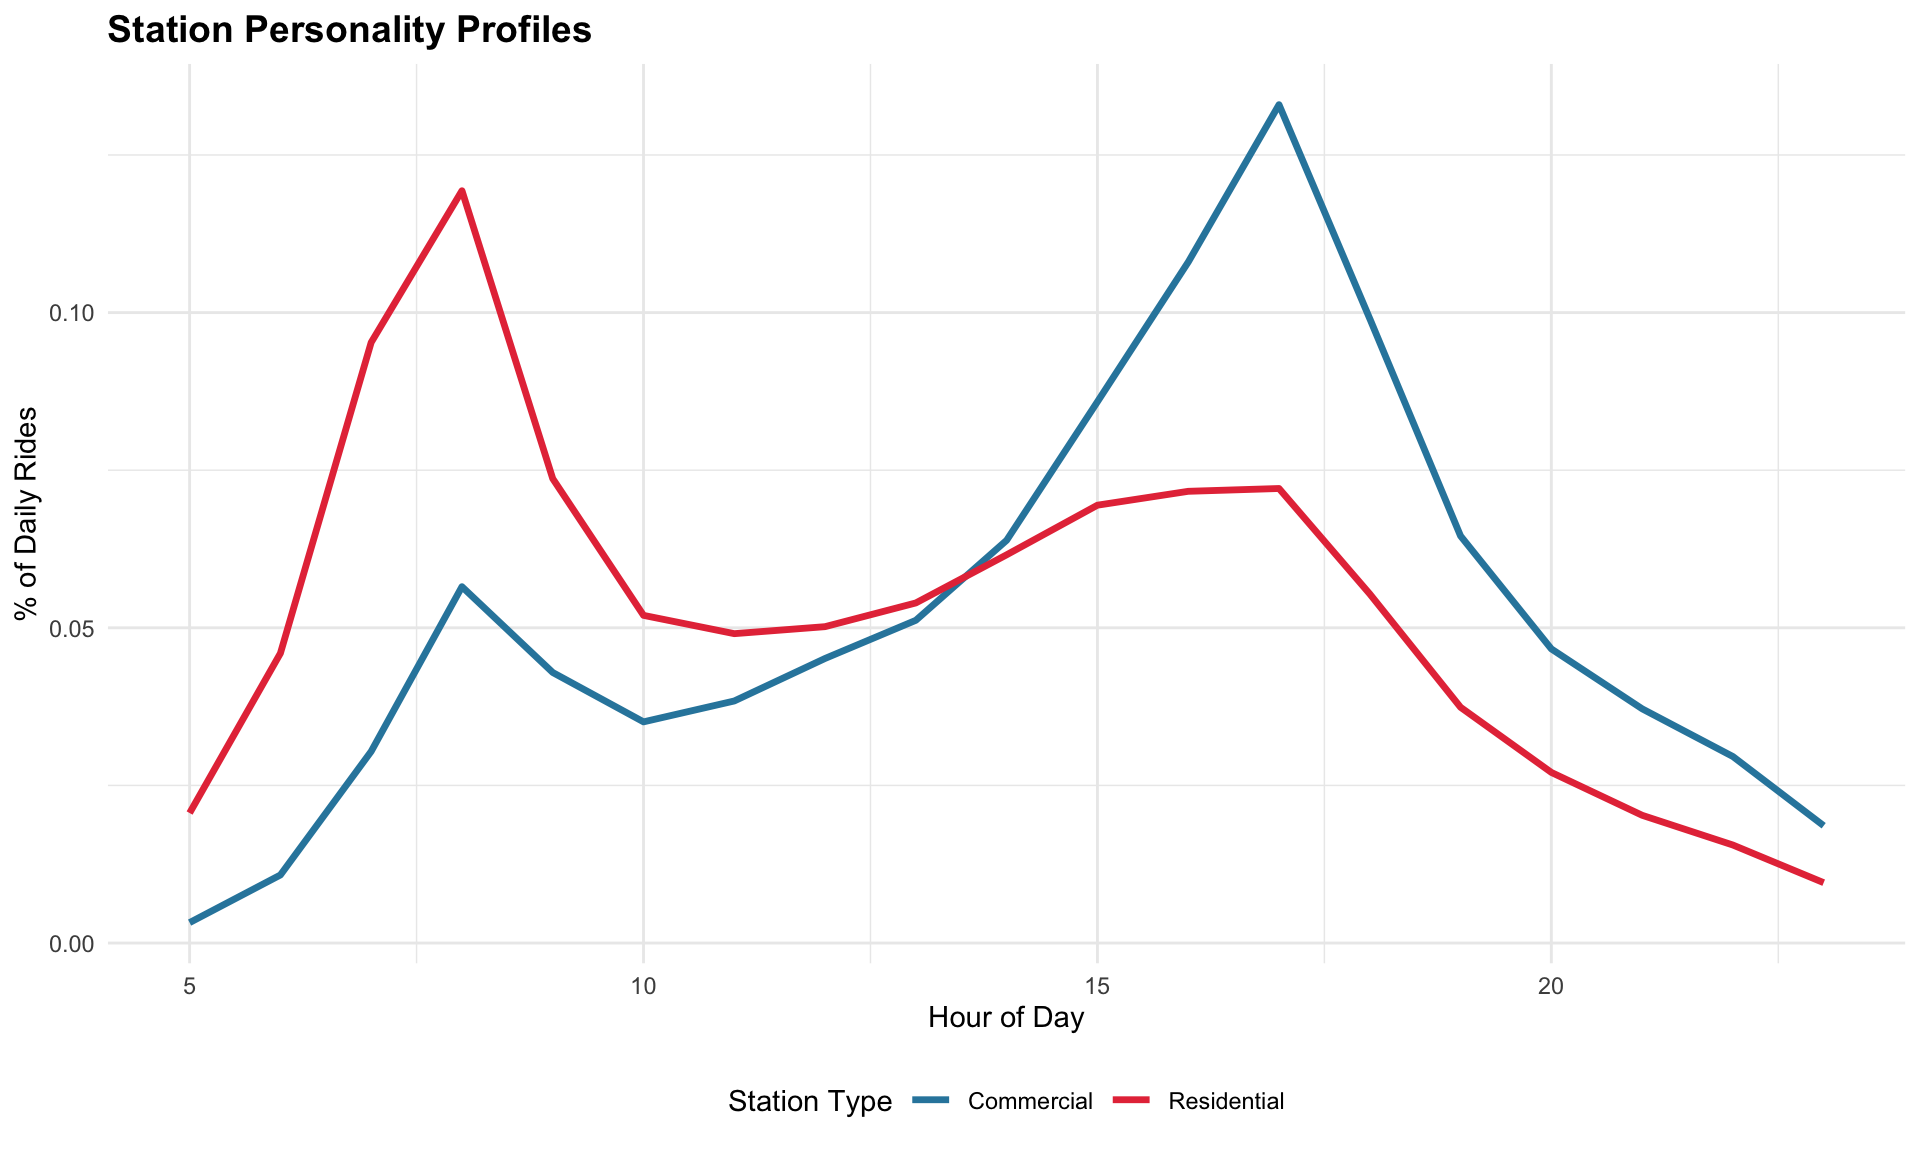
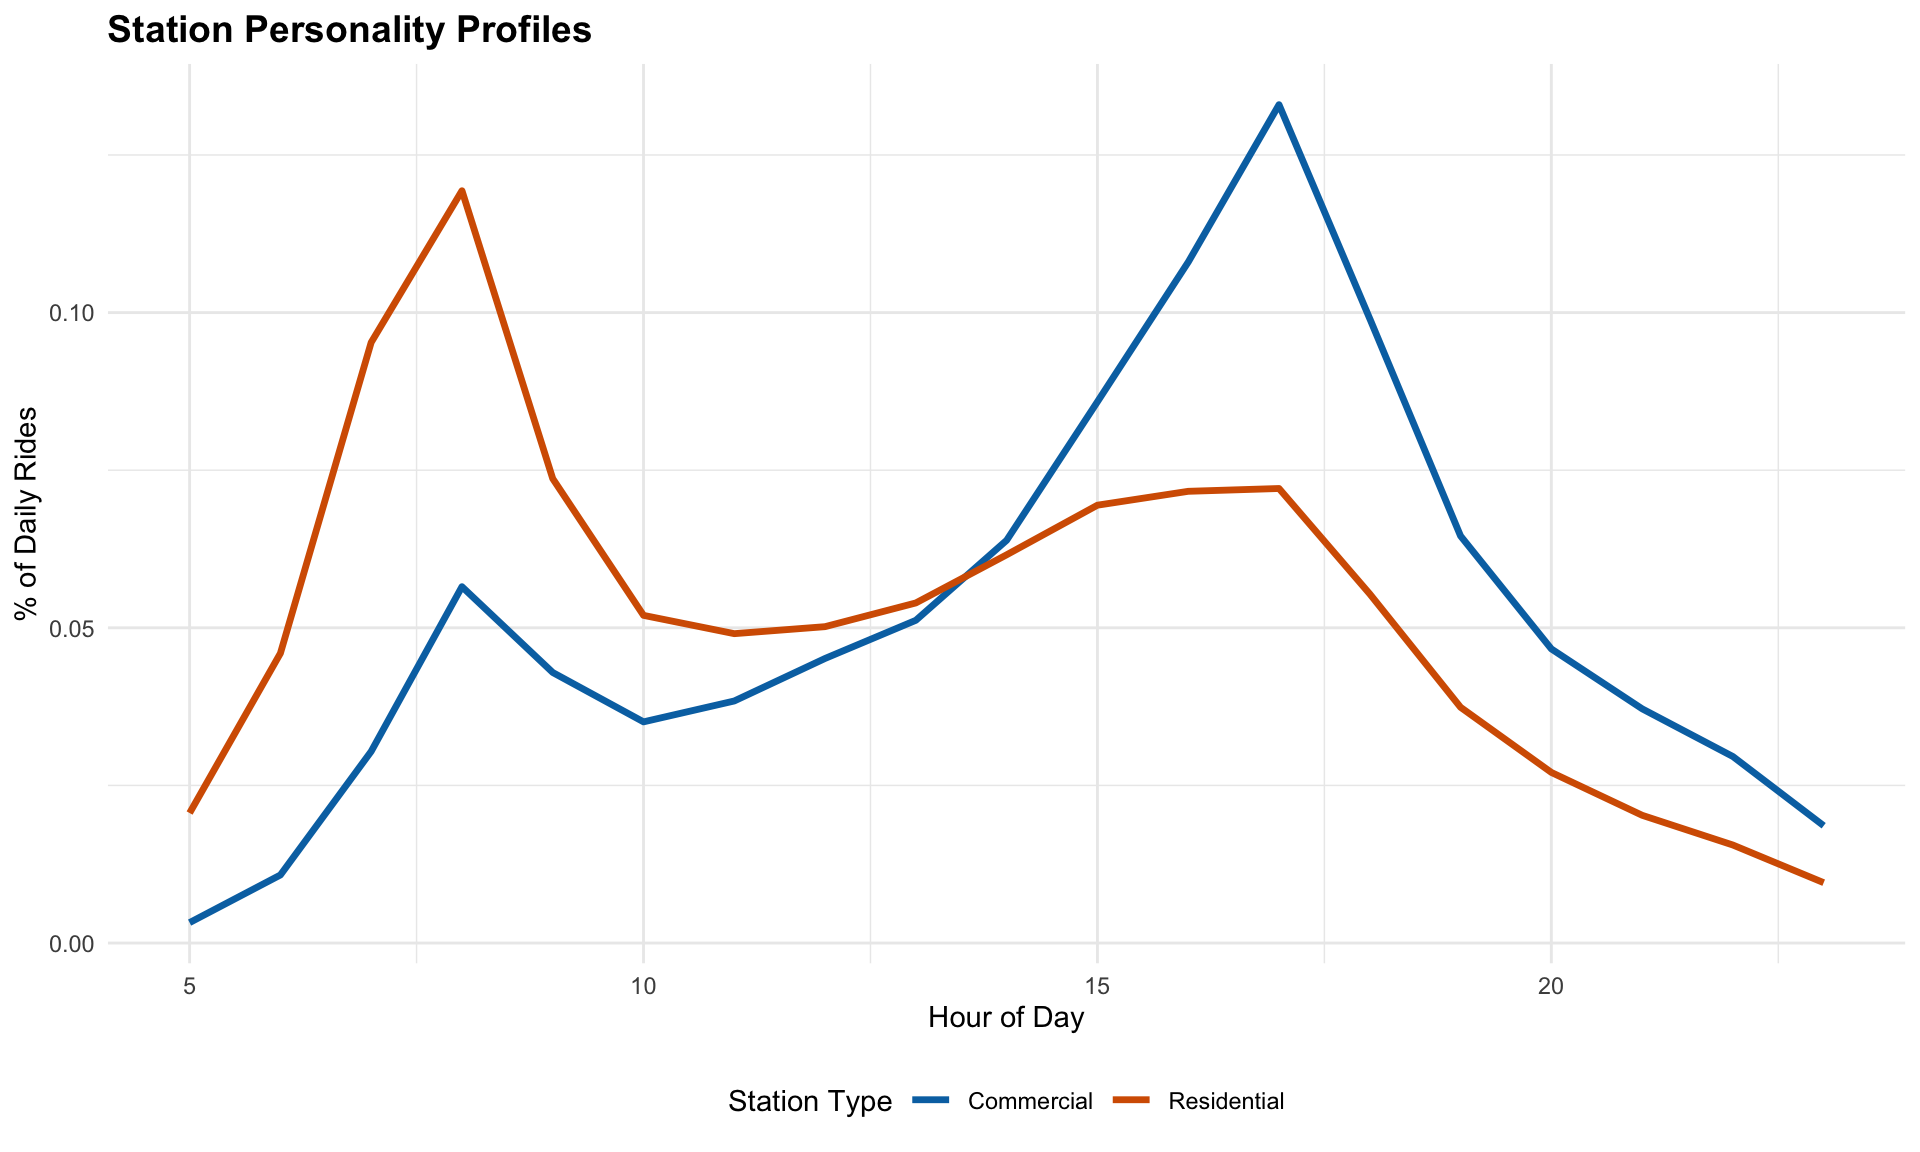
Change all diagrams to use Okabe-Ito palette

diff --git a/data.html b/data.html
@@ -401,16 +401,27 @@ making monthly downloads feasible within API limits while preserving the
 station-hour granularity needed for our weather and event analyses.</p>
 <p>This yielded 1,921,163 hourly observations across 123 Manhattan
 stations from 2024-01-01 to 2025-10-19.</p>
-<pre class="r"><code># Daily trend (2024 only)
-p_daily &lt;- ridership |&gt;
+<pre class="r"><code># Daily trend (2024 only) with 7-day rolling average
+daily_ridership &lt;- ridership |&gt;
   filter(year(date) == 2024) |&gt;
   group_by(date) |&gt;
   summarize(total = sum(total_ridership, na.rm = TRUE) / 1e6, .groups = &quot;drop&quot;) |&gt;
-  ggplot(aes(x = date, y = total)) +
-  geom_line(color = &quot;#2E86AB&quot;, linewidth = 0.8) +
+  arrange(date) |&gt;
+  mutate(
+    rolling_avg = slide_dbl(total, mean, .before = 3, .after = 3, .complete = TRUE)
+  )
+
+p_daily &lt;- daily_ridership |&gt;
+  ggplot(aes(x = date)) +
+  geom_line(aes(y = total), color = okabe_ito$blue, alpha = 0.3, linewidth = 0.4) +
+  geom_line(aes(y = rolling_avg), color = okabe_ito$blue, linewidth = 0.9) +
   scale_y_continuous(labels = comma) +
-  labs(title = &quot;Manhattan Subway Daily Ridership (2024)&quot;, x = NULL, y = &quot;Daily Ridership (M)&quot;) +
-  theme(plot.title = element_text(size = 11))
+  labs(
+    title = &quot;Manhattan Subway Daily Ridership (2024)&quot;,
+    subtitle = &quot;7-day rolling average (bold) with daily values (faded)&quot;,
+    x = NULL, y = &quot;Daily Ridership (M)&quot;
+  ) +
+  theme(plot.title = element_text(size = 11), plot.subtitle = element_text(size = 9))
 
 # Hourly pattern
 p_hourly &lt;- ridership |&gt;
@@ -419,7 +430,7 @@ p_hourly &lt;- ridership |&gt;
   summarize(avg = mean(total_ridership, na.rm = TRUE) / 1000, .groups = &quot;drop&quot;) |&gt;
   ggplot(aes(x = hour, y = avg, color = weekday_type)) +
   geom_line(linewidth = 1) +
-  scale_color_manual(values = c(&quot;Weekday&quot; = &quot;#2E86AB&quot;, &quot;Weekend&quot; = &quot;#E63946&quot;)) +
+  scale_color_manual(values = c(&quot;Weekday&quot; = okabe_ito$blue, &quot;Weekend&quot; = okabe_ito$vermillion)) +
   labs(title = &quot;Average Hourly Pattern&quot;, x = &quot;Hour&quot;, y = &quot;Avg Ridership (K)&quot;, color = NULL) +
   theme(legend.position = &quot;top&quot;, plot.title = element_text(size = 11))
 
@@ -438,7 +449,7 @@ p_top &lt;- ridership |&gt;
     station_short = factor(station_short, levels = station_short)
   ) |&gt;
   ggplot(aes(x = total, y = station_short)) +
-  geom_col(fill = &quot;#06A77D&quot;) +
+  geom_col(fill = okabe_ito$green) +
   scale_x_continuous(labels = comma) +
   labs(title = &quot;Top 30 Manhattan Stations&quot;, x = &quot;Total Ridership (M)&quot;, y = NULL) +
   theme(plot.title = element_text(size = 11), axis.text.y = element_text(size = 8))
@@ -466,8 +477,8 @@ p_ts &lt;- weather |&gt;
   pivot_longer(cols = -date, names_to = &quot;metric&quot;, values_to = &quot;value&quot;) |&gt;
   mutate(metric = ifelse(metric == &quot;TMAX&quot;, &quot;Max Temp (°F)&quot;, &quot;Precipitation (in)&quot;)) |&gt;
   ggplot(aes(x = date, y = value)) +
-  geom_line(data = \(x) filter(x, metric == &quot;Max Temp (°F)&quot;), color = &quot;#E63946&quot;, linewidth = 0.6) +
-  geom_col(data = \(x) filter(x, metric == &quot;Precipitation (in)&quot;), fill = &quot;#2E86AB&quot;, alpha = 0.7) +
+  geom_line(data = \(x) filter(x, metric == &quot;Max Temp (°F)&quot;), color = okabe_ito$vermillion, linewidth = 0.6) +
+  geom_col(data = \(x) filter(x, metric == &quot;Precipitation (in)&quot;), fill = okabe_ito$sky_blue, alpha = 0.7) +
   facet_wrap(~metric, ncol = 1, scales = &quot;free_y&quot;) +
   labs(title = &quot;Central Park Weather (2024-2025)&quot;, x = NULL, y = NULL)
 
@@ -500,11 +511,10 @@ seasonal_weather &lt;- weather_summary |&gt;
 p_season &lt;- seasonal_weather |&gt;
   ggplot(aes(x = season, y = value)) +
   geom_col(aes(fill = season)) +
-  scale_fill_manual(
-    values = c(
-      &quot;Winter&quot; = &quot;#457B9D&quot;, &quot;Spring&quot; = &quot;#06A77D&quot;, &quot;Summer&quot; = &quot;#E63946&quot;, &quot;Fall&quot; = &quot;#F77F00&quot;
-    )
-  ) +
+  scale_fill_manual(values = c(
+    &quot;Winter&quot; = okabe_ito$sky_blue, &quot;Spring&quot; = okabe_ito$green,
+    &quot;Summer&quot; = okabe_ito$orange, &quot;Fall&quot; = okabe_ito$pink
+  )) +
   facet_wrap(~metric, scales = &quot;free&quot;, ncol = 3) +
   labs(title = &quot;Seasonal Weather Summary&quot;, x = NULL, y = NULL) +
   theme(legend.position = &quot;none&quot;, axis.text.x = element_text(angle = 45, hjust = 1))
@@ -558,7 +568,11 @@ p_events_time &lt;- events_analysis |&gt;
   mutate(date = as.Date(paste0(year_month, &quot;-01&quot;))) |&gt;
   ggplot(aes(x = date, y = n, fill = borough)) +
   geom_col() +
-  scale_fill_brewer(palette = &quot;Set2&quot;) +
+  scale_fill_manual(values = c(
+    &quot;Manhattan&quot; = okabe_ito$orange, &quot;Brooklyn&quot; = okabe_ito$sky_blue,
+    &quot;Queens&quot; = okabe_ito$green, &quot;The Bronx&quot; = okabe_ito$vermillion,
+    &quot;Staten Island&quot; = okabe_ito$pink, &quot;Other&quot; = &quot;#999999&quot;
+  )) +
   scale_x_date(date_labels = &quot;%b %Y&quot;, date_breaks = &quot;3 months&quot;) +
   labs(title = &quot;Large NYC Events by Borough (2024-2025)&quot;,
        subtitle = &quot;Strong seasonal pattern: summer/fall peaks, winter lows&quot;,

diff --git a/model.html b/model.html
@@ -409,7 +409,7 @@ p_temp &lt;- station_day_aug %&gt;%
   distinct(date, tmax, dow, day_ridership_system) %&gt;%
   ggplot(aes(x = tmax, y = day_ridership_system / 1e6)) +
   geom_point(alpha = 0.3, size = 1) +
-  geom_smooth(method = &quot;loess&quot;, span = 1, color = &quot;#E67E22&quot;, se = FALSE) +
+  geom_smooth(method = &quot;loess&quot;, span = 1, color = okabe_ito$orange, se = FALSE) +
   facet_grid(. ~ dow) +
   labs(title = &quot;Ridership vs Max Temp&quot;, x = &quot;Temp (°F)&quot;, y = &quot;Ridership (M)&quot;)
 
@@ -419,7 +419,7 @@ p_prcp &lt;- station_day_aug %&gt;%
   distinct(date, prcp, pct_change_system) %&gt;%
   ggplot(aes(x = prcp, y = pct_change_system)) +
   geom_point(alpha = 0.5) +
-  geom_smooth(method = &quot;loess&quot;, color = &quot;#2C7BE5&quot;, se = FALSE) +
+  geom_smooth(method = &quot;loess&quot;, color = okabe_ito$blue, se = FALSE) +
   scale_x_log10() +
   labs(title = &quot;Rain Impact&quot;, x = &quot;Rain (in, log)&quot;, y = &quot;Log % Change&quot;)
 
@@ -429,7 +429,7 @@ p_snow &lt;- station_day_aug %&gt;%
   distinct(date, snow, pct_change_system) %&gt;%
   ggplot(aes(x = snow, y = pct_change_system)) +
   geom_point(alpha = 0.5) +
-  geom_smooth(method = &quot;loess&quot;, color = &quot;#0FB9B1&quot;, se = FALSE) +
+  geom_smooth(method = &quot;loess&quot;, color = okabe_ito$green, se = FALSE) +
   scale_x_log10() +
   labs(title = &quot;Snow Impact&quot;, x = &quot;Snow (in, log)&quot;, y = NULL)
 
@@ -440,7 +440,7 @@ but human comfort is non-linear. We can explore this with a
 <strong>Generalized Additive Model (GAM)</strong>, which allows for
 non-linear relationships and controls for other factors.</p>
 <p>The plot below shows the predicted ridership based on temperature,
-holding other factors constant (dry day, Tuesday in May).</p>
+holding other factors constant.</p>
 <p><span class="math display">\[
 \begin{aligned}
 \text{Ridership} \sim &amp; \; s(\text{Temperature}) \\
@@ -647,7 +647,7 @@ ggplot() +
     alpha = 0.85, size = 3
   ) +
   scale_color_gradient2(
-    low = &quot;#2E86AB&quot;, mid = &quot;white&quot;, high = &quot;#E63946&quot;, midpoint = 0,
+    low = okabe_ito$blue, mid = &quot;white&quot;, high = okabe_ito$vermillion, midpoint = 0,
     limits = c(-0.5, 1.0),
     labels = percent_format(), name = &quot;Ridership Change\nvs. Baseline&quot;
   ) +
@@ -777,7 +777,7 @@ p_profiles &lt;- ggplot(centroids %&gt;% left_join(cluster_labels, by = &quot;cl
 ) +
   geom_line(linewidth = 1.2) +
   scale_color_manual(
-    values = c(&quot;Residential&quot; = &quot;#E63946&quot;, &quot;Commercial&quot; = &quot;#2E86AB&quot;)
+    values = c(&quot;Residential&quot; = okabe_ito$vermillion, &quot;Commercial&quot; = okabe_ito$blue)
   ) +
   labs(title = &quot;Station Personality Profiles&quot;, x = &quot;Hour of Day&quot;, y = &quot;% of Daily Rides&quot;, color = &quot;Station Type&quot;)
 
@@ -808,7 +808,7 @@ p_map &lt;- ggplot() +
     alpha = 0.8, size = 2.5
   ) +
   scale_color_manual(
-    values = c(&quot;Residential&quot; = &quot;#E63946&quot;, &quot;Commercial&quot; = &quot;#2E86AB&quot;),
+    values = c(&quot;Residential&quot; = okabe_ito$vermillion, &quot;Commercial&quot; = okabe_ito$blue),
     name = &quot;Station Type&quot;
   ) +
   coord_sf(
@@ -886,7 +886,7 @@ rain_by_hour &lt;- rain_effect_hourly %&gt;%
   )
 
 p_rain &lt;- ggplot(rain_by_hour, aes(x = hour, y = median_change)) +
-  geom_line(linewidth = 1.2, color = &quot;#2E86AB&quot;) +
+  geom_line(linewidth = 1.2, color = okabe_ito$blue) +
   geom_hline(yintercept = 0, linetype = &quot;dashed&quot;, color = &quot;gray50&quot;) +
   scale_y_continuous(labels = percent_format()) +
   labs(

diff --git a/index.html b/index.html
@@ -313,8 +313,15 @@ Repository</a>:</strong> View the source code and data.</li>
 </div>
 <div id="project-screencast" class="section level2">
 <h2>Project Screencast</h2>
-<iframe width="560" height="315" src="https://www.youtube.com/embed/DoBK44OtoMs" frameborder="0" allow="accelerometer; autoplay; clipboard-write; encrypted-media; gyroscope; picture-in-picture" allowfullscreen>
+<iframe width="560" height="315" src="https://youtu.be/DoBK44OtoMs" frameborder="0" allow="accelerometer; autoplay; clipboard-write; encrypted-media; gyroscope; picture-in-picture" allowfullscreen>
 </iframe>
+<hr />
+</div>
+<div id="accessibility" class="section level2">
+<h2>Accessibility</h2>
+<p>All visualizations in this project use the <a
+href="https://jfly.uni-koeln.de/color/">Okabe-Ito color palette</a> to
+ensure readability for colorblind viewers.</p>
 <hr />
 </div>
 <div id="the-team" class="section level2">
